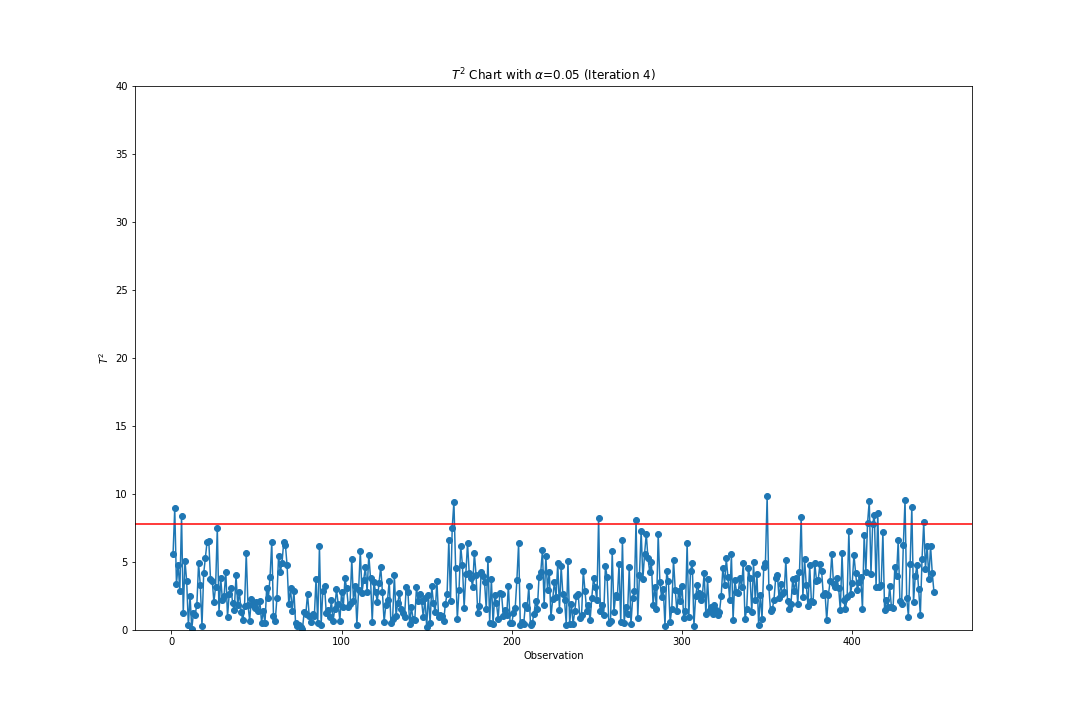
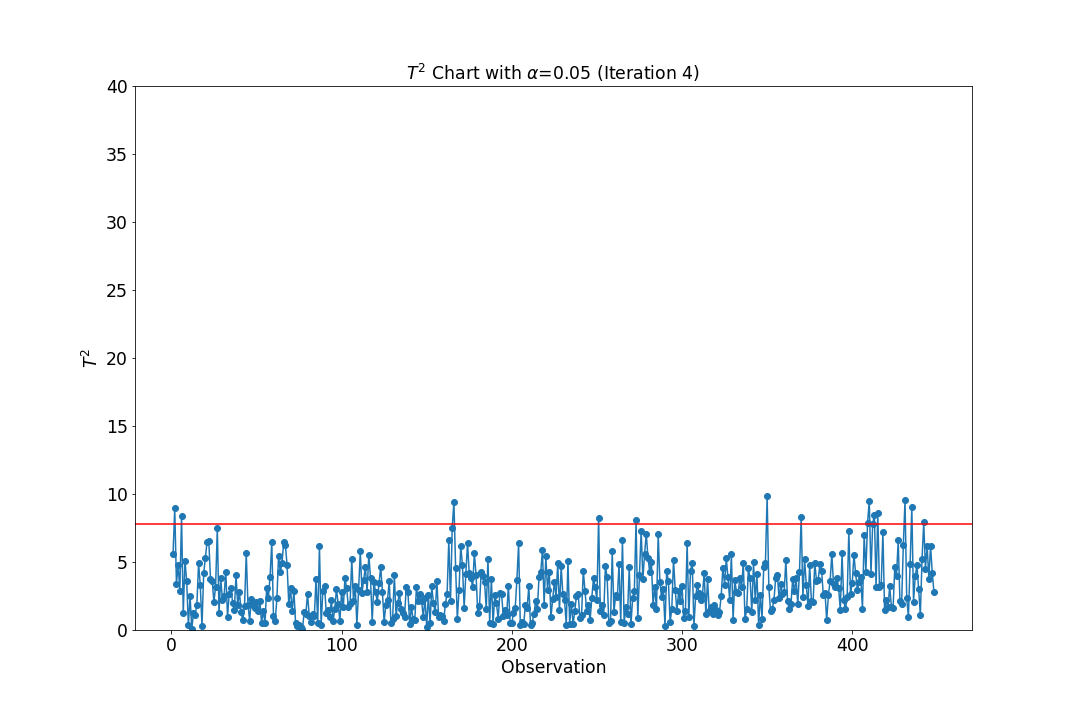
Revise font for Plots

diff --git a/T2 Chart.py b/T2 Chart.py
@@ -12,6 +12,8 @@ import pandas as pd
 import os 
 import numpy as np
 from matplotlib import pyplot as plt
+import matplotlib.pylab as pylab
+
 from scipy.stats import chi2
 
 
@@ -39,7 +41,7 @@ def Phase1T2(df,iter1,p=3,alpha=0.05,ulim=40):
     #alpha=0.05
     dof=p
     UCL=chi2.ppf(1-alpha,dof)
-    fig,ax = plt.subplots(figsize=(15,10))
+    fig,ax = plt.subplots()
     ax.plot(range(1,T2.shape[0]+1),T2,marker="o")
     ax.axhline(y=UCL, color='r', linestyle='-')
     ax.set(xlabel="Observation",ylabel=r"$T^2$",title=r"$T^2$ Chart with $\alpha$=0.05 (Iteration %s)"%iter1)
@@ -75,6 +77,13 @@ def Phase1T2(df,iter1,p=3,alpha=0.05,ulim=40):
 Di_Res=dict()
 Di_ResF=dict()
 i=1
+params = {'legend.fontsize': 'xx-large',
+          'figure.figsize': (15,10),
+         'axes.labelsize': 'xx-large',
+         'axes.titlesize':'xx-large',
+         'xtick.labelsize':'xx-large',
+         'ytick.labelsize':'xx-large'}
+pylab.rcParams.update(params)
 while True:
     Res1=Phase1T2(df=dat,iter1=i)
     Di_Res[i]=Res1["Ndf"]
